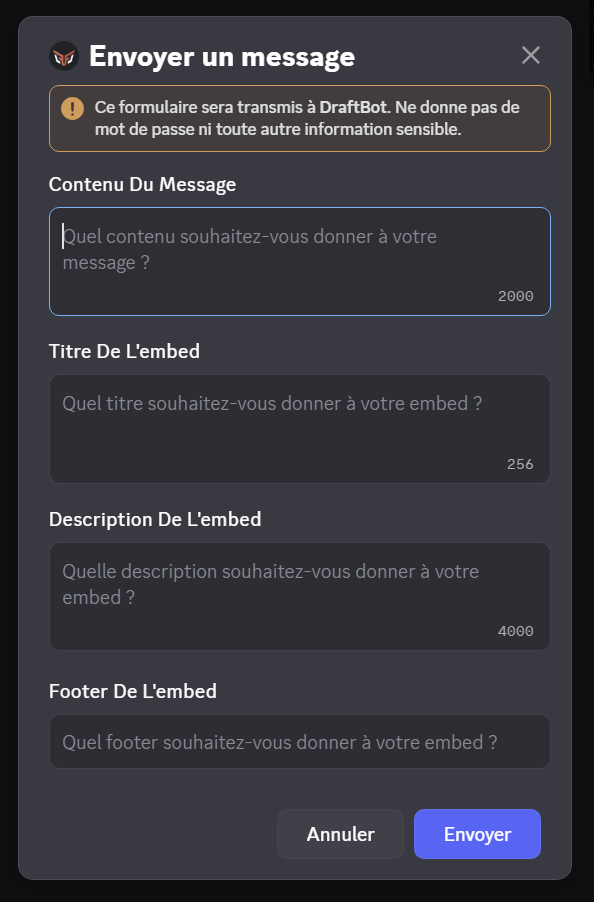
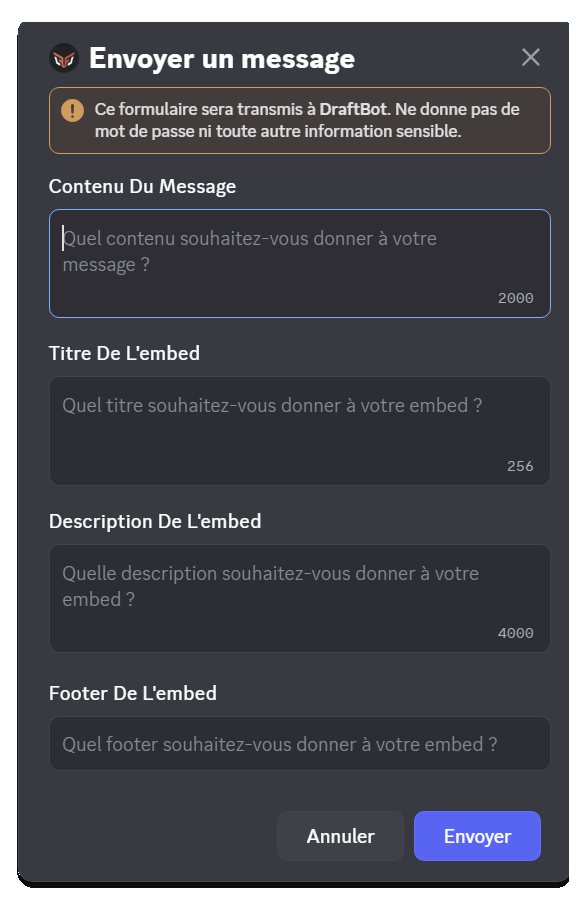
Version 6.18.2 (#396)

diff --git a/docs/fr/12.appendices/0.changelog/1.2026.md b/docs/fr/12.appendices/0.changelog/1.2026.md
@@ -8,8 +8,39 @@ noindex: true
 translate: false
 ---
 
-## 6.18.0 - 16/09/2026
 
+## 6.18.2 - 01/10/2026
+[Lien du message](https://discord.com/channels/422112414964908042/599942732559024138/1555231118037352491)
+
+**⏳ Un rôle d'arrivée qui s'en va tout seul**
+
+Les serveurs premium <:premium:1354302524538224832> pourront à présent donner un rôle temporaire aux nouveaux membres à leur arrivée sur le serveur, de 1 minute à 1 an. Parfait pour un rôle "Nouveau" ou une période d'essai.
+
+**🎁 `/journalier` : des paliers mieux pensés**
+
+- **Des rôles de palier qui se succèdent.** Un palier de série peut donner un rôle évolutif. En l'atteignant, le membre perd celui du palier précédent au lieu de les cumuler.
+- **Un plafond sans ambiguïté.** "Bonus maximum" devient "Plafond du bonus de série", et la configuration affiche le gain maximal qu'un `/journalier` peut rapporter.
+
+**📥 Reprendre un message d'un autre serveur**
+
+Sur les pages Messages et Messages récurrents du panel, "Récupérer un message" accepte maintenant les liens de messages d'autres serveurs où vous êtes administrateur et où DraftBot y est présent. Pratique pour préparer vos messages sur un serveur de test.
+
+**<:icon_settings:1120818166067646664> Et aussi**
+
+- **Rôles temporaires** : `/boutique` et `/info utilisateur` indiquent quand ils expirent, et la confirmation d'achat donne la date exacte.
+- **Tickets** : "Rôles d'accès" devient "Rôles voyant tous les tickets", avec un avertissement et la mise à jour des tickets déjà ouverts.
+- **Logs** : ajout des épingles de messages <:premium:1354302524538224832>, rôles autorisés d'un émoji, et les sauvegardes du panel ne listent plus que ce qui a vraiment changé.
+- **Conditions** : si DraftBot ne peut pas retirer un rôle, il alerte les administrateurs, et le panel grise les rôles concernés.
+- **Route de l'Infini** : des récompenses dès le nombre 50.
+- **`/mod`** trouve une sanction prédéfinie par sa raison ou son type en plus de son nom.
+- **YouTube** : des notifications plus stables. Quand YouTube ne signale pas une nouvelle vidéo, DraftBot vérifie lui-même la chaîne et l'annonce quand même, avec un peu de retard. Et un Short tout juste publié n'est plus annoncé comme une vidéo.
+- **Messages sauvegardés** : vos réglages de mentions et le mode silencieux sont respectés, même quand le message part par un bouton ou une commande personnalisée.
+- **AutoMod** : reconfigurer ou modifier une règle depuis DraftBot met à jour la règle existante, sans doublon, et garde le salon d'alerte ajouté côté Discord.
+- **`/config`** : après 60 secondes sans action, le message dit si vos réglages sont enregistrés ou si l'action en cours n'a pas abouti. Et abandonner une configuration ne laisse plus de salons, de fils ou d'objets créés pour rien.
+- **Système désactivé** : l'administrateur reçoit le lien du panel et de `/config` pour l'activer, le membre apprend qu'il doit s'adresser à un administrateur.
+
+
+## 6.18.0 - 16/09/2026
 [Lien du message](https://discord.com/channels/422112414964908042/599942732559024138/1549854409972785275)
 
 **💬 Snippets : une réponse écrite une fois, envoyée par un humain**

diff --git a/docs/fr/5.engagement/2.economy.md b/docs/fr/5.engagement/2.economy.md
@@ -484,6 +484,15 @@ Si le membre a manqué un jour et que la [récupération payante](#série-streak
     - **Une seule fois :** La récompense n'est applicable qu'une seule fois.
     - **À chaque multiple :** La récompense sera décernée à chaque fois que la série est passée. *(Par exemple : le cinquième, le dixième, le quinzième, etc.)*
 
+    ::collapse{ label="Type de récompense : Rôle" }
+      Lorsque le type de récompense est un "**Rôle**", vous pourrez sélectionner si le rôle sera **cumulable** ou bien **évolutif**.
+
+      - **Cumulable :** Les rôles cumulables sont conservés même si le membre atteint un nouveau palier.
+      - **Évolutif :** Les rôles évolutifs se succèdent, remplaçant celui du palier précédent lorsque le membre atteint un nouveau palier.
+
+      ![Configuration du système de paliers lorsque el type de récompense est un rôle](./assets/economy/panel_daily_level_role.png)
+    ::
+
     ::hint{ type="info" }
       Vous pouvez créer jusqu'à 3 paliers différents. Les serveurs [premium](/premium) <:icon_premium:1096140508625125417> peuvent créer jusqu'à **25** paliers.
     ::
@@ -516,6 +525,13 @@ Si le membre a manqué un jour et que la [récupération payante](#série-streak
 
     - **Une seule fois :** La récompense n'est applicable qu'une seule fois.
     - **À chaque multiple :** La récompense sera décernée à chaque fois que la série est passée. *(Par exemple : le cinquième, le dixième, le quinzième, etc.)*
+
+    ::collapse{ label="Type de récompense : Rôle" }
+      Lorsque le type de récompense est un "**Rôle**", vous pourrez sélectionner si le rôle sera **cumulable** ou bien **évolutif**.
+
+      - **Cumulable :** Les rôles cumulables sont conservés même si le membre atteint un nouveau palier.
+      - **Évolutif :** Les rôles évolutifs se succèdent, remplaçant celui du palier précédent lorsque le membre atteint un nouveau palier.
+    ::
 
     ::hint{ type="info" }
       Vous pouvez créer jusqu'à 3 paliers différents. Les serveurs [premium](/premium) <:icon_premium:1096140508625125417> peuvent créer jusqu'à **25** paliers.

diff --git a/docs/fr/4.member-welcome/1.automatic-roles.md b/docs/fr/4.member-welcome/1.automatic-roles.md
@@ -50,6 +50,51 @@ updatedAt: '2026-04-17'
   ::
 ::
 
+### Temporaire à l'arrivée
+
+::tabs
+  ::tab{ label="Depuis le panel" }
+    [⫸ Accéder au panel de **DraftBot**](/dashboard/first/autoroles)
+
+    ::hint{ type="info" }
+      Cette fonctionnalité est réservée aux serveurs [premium](/premium) <:icon_premium_:1096140508625125417>.
+    ::
+
+    Vous pouvez sélectionner un rôle qui sera donné au membre à son arrivée. Ce rôle lui sera ensuite retiré à la fin du temps imparti.
+
+    ::hint{ type="info" }
+      Un rôle déjà donné en **permanent** ne **peut pas** être choisi ici.
+    ::
+
+    ![Configuration des rôles temporaires à l'arrivée sur le panel](./assets/automatic-roles/panel_temp.png)
+  ::
+
+  ::tab{ label="Via la commande /config" }
+
+    ::hint{ type="info" }
+      Cette fonctionnalité est réservée aux serveurs [premium](/premium) <:icon_premium_:1096140508625125417>.
+    ::
+
+    Veuillez d'abord vous rendre dans \</config> ➜ 🏷 Rôles Automatiques ➜ "Temporaire à l'arrivée".
+
+    Pour configurer un rôle temporaire lorsqu'un membre rejoint votre serveur, cliquez sur "Configurer".
+
+    ::hint{ type="info" }
+      Un rôle déjà donné en **permanent** ne **peut pas** être choisi ici.
+    ::
+
+    Si vous souhaitez modifier un rôle de cette liste, cliquez sur "Modifier"
+
+    Si vous souhaitez supprimer un rôle de cette liste, cliquez sur "Supprimer".
+
+    ::hint{ type="info" }
+      Vous pouvez ne modifier **que la durée** d'un rôle temporaire en cliquant sur le bouton "Modifier la durée".
+    ::
+
+    ![Menu d'accueil de la configuration des rôles temporaires à l'arrivée](./assets/automatic-roles/config_roles_temp.png)
+  ::
+::
+
 ### En vocal
 
 ::tabs
@@ -96,8 +141,6 @@ updatedAt: '2026-04-17'
   ::
 ::
 
-
-
 ## Attribution de rôles en masse
 
 ::tabs
@@ -122,3 +165,7 @@ updatedAt: '2026-04-17'
     ![Suivi de la tâche](./assets/automatic-roles/config_roles_progress.png)
   ::
 ::
+
+
+
+

diff --git a/docs/fr/6.security/5.logs.md b/docs/fr/6.security/5.logs.md
@@ -129,12 +129,13 @@ Chaque module a une utilité différente. Choisissez ceux qui correspondent à v
 
 Nous vous conseillons de rendre vos logs accessibles uniquement aux modérateurs.
 
+
 #### Configurations
 - **Configuration** : Configuration des systèmes DraftBot de votre serveur (panel compris).
 - **Arrivées et départs** : Logs d’arrivée ou de départ des membres de votre serveur.
 - **Salons** : Création, modification ou suppression de salons sur votre serveur.
 - **Rôles** : Création, modification ou suppression de rôles sur votre serveur.
-- **Émojis** : Création, modification ou suppression d’émojis sur votre serveur.
+- **Émojis** : Création, modification, suppression ou restriction d’émojis sur votre serveur.
 - **Autocollants** : Création, modification ou suppression de stickers sur votre serveur.
 
 
@@ -149,7 +150,7 @@ Nous vous conseillons de rendre vos logs accessibles uniquement aux modérateurs
 - **Suggestions** : Envoi et tri des suggestions envoyées sur le serveur via DraftBot.
 - **Commandes personnalisées** : Exécution de commandes personnalisées sur votre serveur.
 - **Commandes Slash** : Exécution de commandes Slash de DraftBot sur votre serveur. (DraftBot uniquement)
-- **Messages** : Modification ou suppression de messages sur votre serveur. (<:icon_premium:1096140508625125417>)
+- **Messages** : Modification, suppression ou épinglage de messages sur votre serveur. (<:icon_premium:1096140508625125417>)
 - **Boosts** : Boosts reçus et perdus du serveur. (<:icon_premium:1096140508625125417>)
 
 ::hint{ type="info" }
